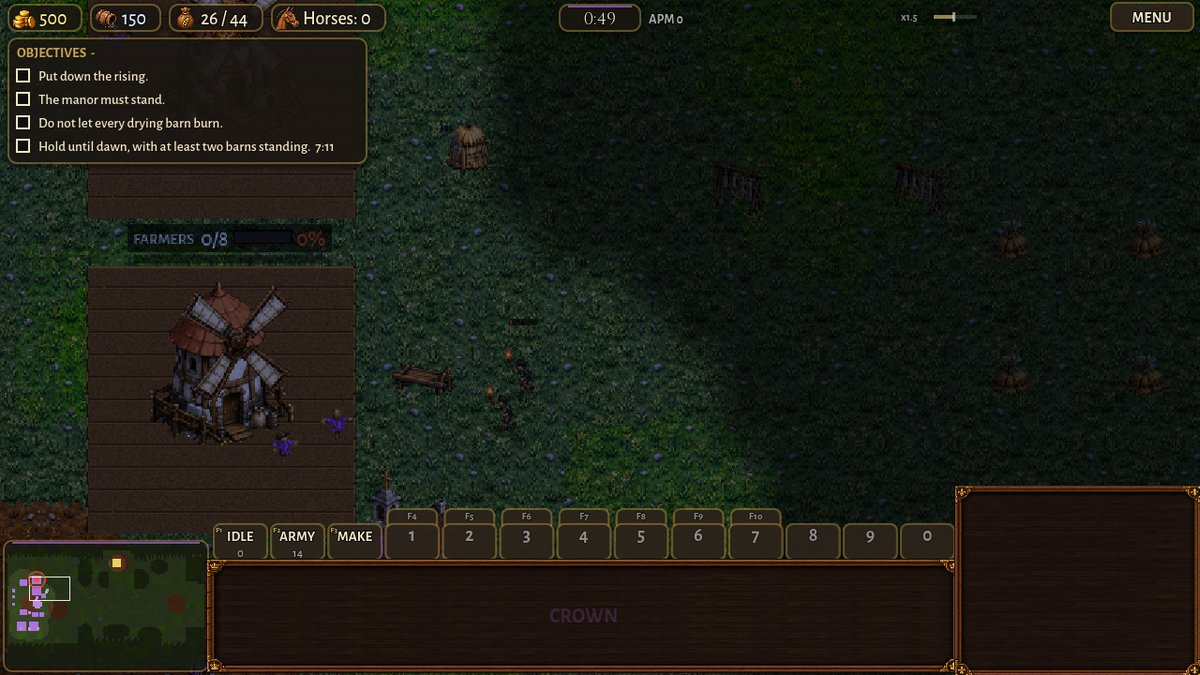
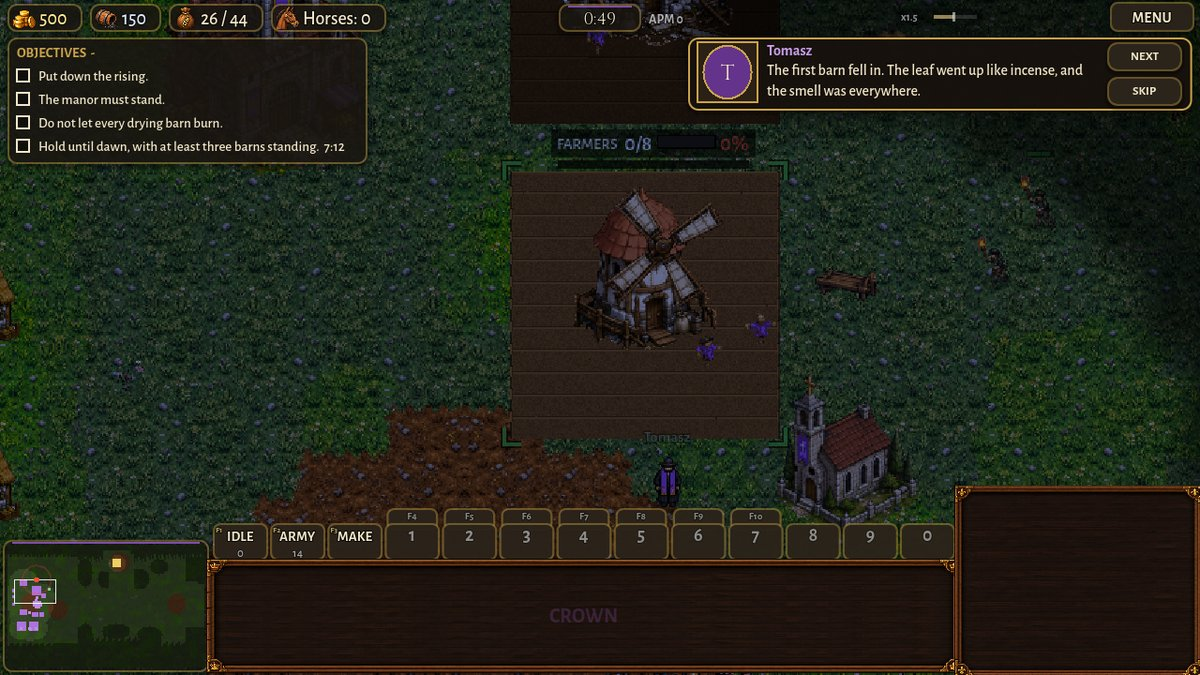
eco-revert-prologue WIP: dawn still needs three barns (of four; the night sim), the doc, pictures retaken
Claude-Session: https://claude.ai/code/session_01SK3ipCz2F7kUcRiBjiD2Se

diff --git a/docs/eco_revert_prologue.md b/docs/eco_revert_prologue.md
@@ -1,0 +1,125 @@
+# eco-revert-prologue (0.38.12): the original economy back, the prologue's plantation on the 2-a-hall rule
+
+The owner, 2026-11-15 10:24:
+
+1. "I think we better revert back to 2 buildings, no radius, no effectiveness based on soil. Reverting back to original
+   eco. Because currently this experiment is proving problematic."
+2. The prologue's Governor had one Town Hall and five Farms, which "works against the player's instincts when they go from
+   campaign to skirmish": "bring the Town Hall down and give it 2 Farms, and make another Town Hall a bit further north,
+   still hugging the west, with 2 more Farms".
+
+## 1. The economy: what was removed
+
+The ORIGINAL economy is the only one: each Town Hall allows 2 Farms and each Clocktower 2 Cog Presses, counted empire-wide
+(`Game.econ_limit` = 2 x halls), and a Farm / Press draws on its nearest hall's own soil / brass pool (`Building.soil`,
+`Building.lode`); spent soil pays `SOIL_TIRED`, spent brass nothing. The rules are exactly those of 0.34.x (before the
+ground system's merge, 0.35.0): `econ_count` counts every Farm / Press again, spent or not, and the limit is the side's,
+not a district's.
+
+Deleted (only the experiments used them):
+
+- `scripts/ground_layer.gd` (GroundLayer: the soil / brass tiles, the districts, the circles, its save, net rows and study
+  arguments) and `scripts/ground_view.gd` (GroundView: the layer while placing, its labels and minimap marks).
+- `Defs.ground_on`, `Defs.ground_nocap`, `Defs.LAND`; `Defs.NOCAP_SUB`, `nocap_now`, `nocap_text` (the hall texts read "2
+  Farms" / "2 Cog Presses" always).
+- `Settings.ground_system`, `ground_nocap`, `ground_alpha` and their rows in Settings > EXPERIMENTAL (GROUND SYSTEM, NO
+  FARM/PRESS LIMIT, GROUND LAYER WHILE PLACING). A saved "on" in the player's settings file is simply not read any more.
+  EXPERIMENTAL keeps TURNING GEARS.
+- In `Game`: `ground_layer`, `land()`, `ground_view`, the ground's spot score in `find_spot`, the circle draw in `harvest`,
+  `harvest_value`, `lode_draw`, `lode_pay`, the district tick, `found` / `forget` / `covers_changed`; the NO FARM/PRESS
+  LIMIT code (`econ_capped`, `is_ai_team`, `_nocap_limit`, `nocap_allow`, `nocap_extra`, `_district_live`), the local
+  (district) limit and the "No soil here" / "No brass here" refusal (`NO_GROUND_MSG`): a Farm away from every hall says
+  "Must be near your Town Hall." again.
+- In `Building`: the ground branches of `soil_left`, `lode_left`, `barren` and `press_rate`.
+- The computers: `AI._ground_recycle` (pulling down a Farm / Press on a spent circle), `AI.nocap_hands` (worker caps grown
+  by the extra crews) and its use in `AICrown.owner_lab_cap`; `GearEcon.room_spot_n`'s ground score. The paths left are the
+  ones every computer ran with the ground off (the default): spent Mills / Crushers / Presses pulled down by
+  `_recycle_spent`, spent Farms by the Crown computer's own rule (econ-coach-crown, 0.34.2, older than the ground system).
+- The HUD: the build card's "Farm 3" (no limit) label and "no limit: the ground decides" line; the hall info lines without
+  `nocap_text`; the minimap's ground marks.
+- Online: the snapshot's ground rows ("gk" / "gd"), `NetView.ground_sent`, `NetSession.ground_sent`.
+- Tools: `tools/test_ground_system.gd`, `test_ground_nocap.gd`, `shot_ground_system.gd`, `ground_probe.gd`,
+  `tools/study/ground_games.py`, `ground_nocap.py`, `ground_nocap_bench.py`, `econ_nocap_all.py`,
+  `econ_nocap_all_bench.py`; the `ground=` / `groundcap=` / `drink=` / `land.<key>=` arguments of `econ_bench.gd`,
+  `econ_ai_alone.gd`, `econ_ai_alone_brood.gd`, `qa_match.gd`, `shot_ai_match.gd`; `qa_matches.py --only ground`;
+  `test_net_fog.gd`'s `ground:1` mode (back to its 0.34 form); the ground parts of `test_overlay_alpha.gd` (parts B and C
+  now check the original texts and refusal), `test_settings_tabs.gd`, `test_qa_settings_persist.gd`.
+- Texts: `tools/i18n/65_ground_system.txt`, `68_ground_nocap.txt` and the hall-text / refusal entries of
+  `69_overlay_alpha.txt` (the lang tables rebuilt: 38 entries fewer each). The old patch notes stay as history.
+- Docs: `docs/ground_system.md`, `ground_system_games.txt`, `ground_nocap_study.md`, `econ_nocap_all.md`, their data
+  folders and pictures (`docs/ground_nocap_data/`, `docs/econ_nocap_all_data/`, `docs/shots/ground_system/`,
+  `ground_nocap/`, `econ_nocap_all/`, about 22 MB). They are in the git history: `git show 42ae6314:docs/ground_system.md`
+  (0.38.11, the last version with them).
+
+Kept, because other systems use them or they are not the experiment's:
+
+- `Game.halls_of`, `nearest_hall`, `soil_hall`, `lode_hall`, `soil_scars`, `ECON_RANGE`, `HALL_SPACING`: the original economy.
+- OVERLAY OPACITY (`Settings.overlay_alpha`, part A of overlay-alpha): unrelated to the ground.
+- `qa_match.gd`'s Farm / Press count per hall (`_drinkers`) and its army-at-home share (`_home_share`): plain measures that
+  work without the ground.
+- The Brood's Rootmaw ground (`BroodNew`, `GroundMarks`, "ATTACK GROUND"): other systems that share the word.
+
+Old saves, replays and online setups: a match setup's `"ground"` / `"ground_nocap"` is erased when a match starts
+(`Main.start`), a save's `"ground"` block is not read (`SaveGame`), a MIXED replay's keyframes likewise (`ReplayMix`). Such
+a match goes on with the original economy: the halls' soil and brass were saved with them (the ground system kept them up
+to date as each district's total), so a hall reads what its district held. A match played with NO FARM/PRESS LIMIT keeps
+the Farms it already built over the limit; it just can't build more. Nothing is refused.
+
+### The benches with the original economy (0.38.11 = main, ground off; 0.38.12 = this branch)
+
+| Bench (greenhold, seed 1) | 0.38.11 | 0.38.12 |
+|---|---|---|
+| `econ_bench.gd crown` (scripted), value by 10:00 | 14,079 | 14,079 |
+| `econ_bench.gd clockwork` (scripted), value by 10:00 | 14,863 | 14,857 |
+| `econ_ai_alone.gd crown` (the computer, OPTIMAL Hard), value by 10:00 | 11,897 | 12,296 |
+| `econ_ai_alone.gd clockwork`, value by 10:00 | 17,522 | 17,639 |
+| `econ_ai_alone_brood.gd`, value by 10:00 | 13,948 | 13,988 |
+
+The scripted benches are the same. The computers alone are within 0-3% (the Crown's halls came 2 s apart; its plans,
+halls and buildings at 10:00 are the same: 4 halls, 8 Farms, 4 Mills): the one rule that changed with the ground off is
+that a spent Farm / Press counts against the limit again (0.35.0 had stopped counting it even with the ground off, and had
+made the limit each hall's own), which the computers already handle by pulling spent ones down.
+
+## 2. The prologue's plantation (campaign/missions/p01_leaf.json, map campaign:virginia_leaf)
+
+![the north hall](shots/campaign_m1/0_plantation_north.jpg)
+![the manor](shots/campaign_m1/0_plantation_south.jpg)
+
+Before: one Town Hall (the manor, tag `manor`) at [10, 34] and five Farms (tag `barns`). Now (cells, top-left corner):
+
+| Building | Was | Now |
+|---|---|---|
+| Town Hall, the manor (tag `manor`) | [10, 34] | [8, 42], further south |
+| Town Hall to the north (new, tag `north_hall`) | - | [8, 23], on the west side; 19 tiles from the manor (HALL_SPACING 18) |
+| Farms (tag `barns`) | [24, 30], [24, 38], [6, 22], [14, 22], [20, 48] | north hall: [16, 20], [16, 27]; manor: [6, 50], [14, 50] |
+| Church (the chapel) | [18, 28] | [22, 32], between the north barns and the lawn |
+| Barracks, Powder Mill | [8, 44], [16, 44] | [16, 44], [21, 44], beside the manor |
+| Cottages | [3, 29], [3, 33], [3, 41] | [3, 29], [3, 33], [3, 38] |
+
+Every barn stands within ECON_RANGE of its hall, two by each (checked in `tools/test_campaign_m1.gd`), so the Governor
+starts at the Farm limit (4 of 4) exactly as a skirmish player would with two halls. Units: Lord Fairleigh by the manor's
+steps [14, 44], Tomasz by the chapel [19, 34], the labourers [14, 47], the guns on the lawn [20, 38] (co-op's gunners
+[21, 40]); the 10 Musketeers on the lawn as before. Areas: `plantation` [3, 16, 30, 42] (all of it; the night waves
+attack-move on it), `manor` [6, 38, 18, 10] (the dawn reinforcements arrive there), `lawn` [15, 35, 8, 8] (the camera and
+the line). `edge_n`, `edge_e`, `edge_ne`, `edge_se`, `edge_s` (where the waves come out of the woods) are unchanged: the
+north barns face the north fields and the first waves, the manor and its barns the south and south-east ones. The map's
+props were moved off the new footprints (a drying rack, a barrel, the sacks, the bench); its tobacco fields north and south
+are where they were, so each hall has its barns between it and a field.
+
+The objectives keep their words ("The manor must stand.", "Do not let every drying barn burn.", "Hold until dawn, with at
+least three barns standing."); the first-barn line now comes at 3 barns left (below 4, was below 5). CLAUDE'S CHOICE:
+dawn still needs THREE barns, now of four. The night's balance sim (`tools/sim_campaign_m1.gd`, the "active" bot that hunts
+torch-bearers, 3 runs) ended the night with 3, 3, 3 barns of 5 before and 4, 3, 4 of 4 now: the plantation is more compact,
+so "three" keeps it as close a run as it was (two of four would have made it much easier). A passive player now loses at
+5:51 (the manor burns; it was 4:39, the barns). The opening's stills and lines name no number of farms, so nothing
+contradicts the map. The story plays as before (`tools/test_campaign_m1.gd` and `tools/test_campaign.gd`: 0 failures):
+the waves reach both halls, the families choice and the canister ending are untouched (they are far east).
+
+Also fixed (seen in the pictures): a mission with `"expansion_spots": false` showed an OPTIMAL EXPANSION SPOT again once its
+Crown side had two halls (the Crown's and the Clockwork's own spot rules re-rated the spots when the halls changed); now the
+mission's choice turns those updates off too (`Game`, `ExpansionSpots.crown_on` / `clock_on`). The 0.31 picture of the night
+showed it too.
+
+## Tests (0.38.12)
+
+See the table at the end (filled from the runs).

diff --git a/CLAUDE.md b/CLAUDE.md
@@ -26,7 +26,7 @@
 ## Current work
 
 - RAPTOR / HORSEMAN BALANCE (owner DECIDED 2026-11-15 00:38-00:53, after comparing StarCraft II's Zergling and Hellion; job balance-raptor-horseman, 0.38.10, docs/balance_raptor_horseman.md, tools/test_raptor_rider_fight.gd): Raptor 38 health (was 36), speed 92 (was 96), PACK HUNT still 114 (only then does it outrun horses); Horseman 100 health (was 140) and 100 gold (was 115), Cuirassier 130; KEEN SABRES at the Horse Breeder (Claude's Blue-Flame-like proposal, no objection: +6 sabre v light, 75 gold, 30 s). Without Keen Sabres Raptors now beat Horsemen at equal cost; with it riders win again on the move. PROPOSALS WAITING: the computer buys Keen Sabres at 6-7 min whether it has riders or not (should be with riders / at once in rider plans); an Officer + a horse (115) is now a cheaper Horseman than a Horseman (140): Officer 75 -> 60?; rerun the Crown v Brood and Brood mirror win rates. CAVALRY HIT AND RUN for the Crown computer (owner 00:53; job crown-coach-cavalry, 0.38.9, scripts/ai_cav_micro.gd, switch cavmicro:off). BALLOON (0.38.7, scripts/ai_crown_balloon.gd, blfix:off; OPTIMAL picks it 1/3 v a NORMAL Clockwork, owner: "viable, not 100%"), ECONOMY (0.38.8, crowneco:off) coached too.
-- ECONOMY REVERTED + PROLOGUE (owner DECIDED 2026-11-15 10:24: "revert back to 2 buildings, no radius, no effectiveness based on soil... this experiment is proving problematic"; job eco-revert-prologue, 0.38.12, docs/eco_revert_prologue.md): the ORIGINAL economy is the only one (2 Farms / 2 Cog Presses a hall, the hall's own soil/brass pool); the GROUND SYSTEM and NO FARM/PRESS LIMIT are DELETED (ground_layer.gd, ground_view.gd, Defs.ground_on/ground_nocap/LAND, Settings ground_system/ground_nocap/ground_alpha, Game.NO_GROUND_MSG, Defs.nocap_text, their tests, study tools and docs; in git history before 0.38.12); an old cfg/save/replay "ground" is ignored. PROLOGUE (p01_leaf): the manor Town Hall moved south ([8,42], tag manor) with 2 Farms, a second Governor Town Hall north on the west side ([8,23], tag north_hall) with 2 Farms: 4 barns (was 5); dawn needs 2 barns (was 3 of 5); a mission's "expansion_spots": false now also stops the Crown/Clockwork spot updates.
+- ECONOMY REVERTED + PROLOGUE (owner DECIDED 2026-11-15 10:24: "revert back to 2 buildings, no radius, no effectiveness based on soil... this experiment is proving problematic"; job eco-revert-prologue, 0.38.12, docs/eco_revert_prologue.md): the ORIGINAL economy is the only one (2 Farms / 2 Cog Presses a hall, the hall's own soil/brass pool); the GROUND SYSTEM and NO FARM/PRESS LIMIT are DELETED (ground_layer.gd, ground_view.gd, Defs.ground_on/ground_nocap/LAND, Settings ground_system/ground_nocap/ground_alpha, Game.NO_GROUND_MSG, Defs.nocap_text, their tests, study tools and docs; in git history before 0.38.12); an old cfg/save/replay "ground" is ignored. PROLOGUE (p01_leaf): the manor Town Hall moved south ([8,42], tag manor) with 2 Farms, a second Governor Town Hall north on the west side ([8,23], tag north_hall) with 2 Farms: 4 barns (was 5); dawn still needs 3 barns (now of 4: the night sim's active player ends with 3-4, it ended with 3 of 5 before); a mission's "expansion_spots": false now also stops the Crown/Clockwork spot updates.
 - NO FARM/PRESS LIMIT, ALL SIDES: REVERTED by the owner 2026-11-15 10:24 (see above). Was: (owner 2026-11-14 "economic study with the free amount of resources"; job econ-nocap-all, 0.38.6, docs/econ_nocap_all.md, tools/study/econ_nocap_all*.py): RECOMMENDS KEEPING THE LIMIT: with the ground system on, dropping it gives the Clockwork +20% income by 12:00, Crown 0.98, Brood 0.96; Brood v Clockwork 7-3-6 -> 4-3-9; no turtling, no extra snowball. If dropped one day: a Clockwork brake (7,000 brass a district), a Brood counterpart, after the Crown computer reaches its bench. OWNER DECISION WAITING.
 - PENDULUM HITS FLYERS (owner 2026-11-15 00:46-00:53, no research; job pendulum-air, 0.38.3, docs/pendulum_air.md,
   tools/test_pendulum_air.gd, tools/bench_pendulum_air.gd, pictures docs/shots/pendulum_air/): every swing also cuts the

diff --git a/docs/campaign_m1_build.md b/docs/campaign_m1_build.md
@@ -34,9 +34,9 @@ mission file stays as the engine's test bed for tools/test_campaign.gd; it is no
   north-east edge with three pikemen, shouts, and walks off to the fort 40 s later. Lines on triggers: Varenne's slogans,
   Ruggieri's answers, Tomasz on the dead, Ruggieri and Fairleigh on the burning leaf (the smoking), a barn hit, the first
   barn lost, the manor hit, Lauds at 7:20 (the light turns to dawn over 40 s).
-- DAWN (8:00): with at least two of the four barns standing (three of five until eco-revert-prologue), the night's rebels
+- DAWN (8:00): with at least three barns standing (of four since eco-revert-prologue, of five before), the night's rebels
   fall back to the fort, 6 more Musketeers and 300 gold / 100 powder arrive, the camps objective shows. With fewer than
-  two: "The leaf is ash..." and the mission is lost.
+  three: "The leaf is ash..." and the mission is lost.
   The light turns to day 90 s later.
 - PART 2, THE ROAD: two camps (9 and 11 men, holding). When the first is down: Hollins Farm (a loyal Farm, yellow) with
   six families and four raiders and a torch-bearer burning it; Tomasz and Fairleigh speak and the CHOICE appears (a
@@ -54,7 +54,7 @@ mission file stays as the engine's test bed for tools/test_campaign.gd; it is no
   and the night's survivors (also at once if the player fires on the mass first). "Fire." when four of them are in the
   kill zone. The charge broken: won.
 - ENDING (a Crown win): the canister still with Tomasz's and the King's lines, then the end screen.
-- LOSING: the manor falls, every barn burns, or fewer than two barns at dawn.
+- LOSING: the manor falls, every barn burns, or fewer than three barns at dawn.
 
 ## The Free Assembly: stand-ins, and how to swap in the real art
 
